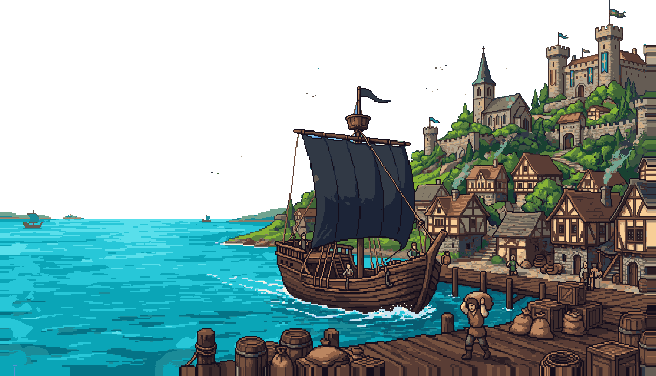
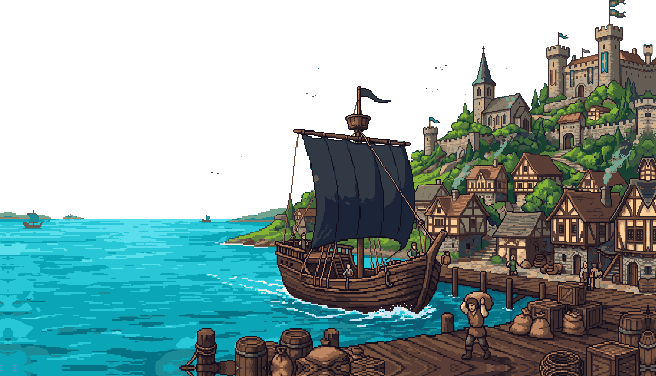
Menu: clean sky behind the land, mirrored margins, smooth parallax
The sky layer behind the land now takes the colour of the nearest sky pixel
(no stripes down the columns, no dark line under the castle's flagpole), and
the gaps of sky in the cog's rigging belong to the sky. Layer margins mirror
the picture instead of repeating its edge. The layers follow the mouse on a
critically damped spring. menu_shot.tscn takes --shift=x,y to check the edges.

Claude-Session: https://claude.ai/code/session_01Ves32F3q6Z4ytadCt162tU

diff --git a/tools/split_menu_art.py b/tools/split_menu_art.py
@@ -5,9 +5,13 @@ into the layers of the living menu:
              through when the layers move apart),
   land.png   the town, the sea, the cog and the quay, the sky cut out (transparent),
   water.png  a mask of the open sea (white where the waves glitter).
-Every layer gets PAD pixels of the edge repeated on each side, so moving it a little with the
+Every layer gets PAD pixels of the picture mirrored at each side (review fix 2026-11-07: a
+mirror instead of the repeated edge, which looked stretched), so moving it a little with the
 mouse never shows an empty border. The sky is found by a flood fill from the top edge over sky
-blues and cloud whites, down to the horizon, and from the EXTRA_SKY points (enclosed pieces).
+blues and cloud whites, down to the horizon, from the EXTRA_SKY points, and from every piece
+of sky enclosed by the rigging (RIGGING box: the gaps between the yard and the sail). Behind
+the land the sky layer takes the colour of the nearest sky pixel, so a sliver of it shown when
+the layers move apart continues the sky right next to it (no stripes down the columns).
 Run from the project root: python3 tools/split_menu_art.py (needs Pillow)."""
 from collections import deque
 
@@ -19,6 +23,8 @@ PAD = 8
 HORIZON = 215
 ## Pieces of sky the flood fill from the top cannot reach (between the sail and its rope).
 EXTRA_SKY = [(293, 160)]
+## Box (x0, y0, x1, y1) of the cog's rigging: any enclosed piece of sky in it is sky.
+RIGGING = (270, 80, 420, 215)
 
 
 def is_sky(c):
@@ -35,6 +41,15 @@ def is_sea(c):
     return g > 120 and b > 140 and r < 120 and b >= g - 10
 
 
+def mirror(i, n):
+    """Index i (may be outside 0..n-1) mirrored back into the picture."""
+    if i < 0:
+        return -i - 1
+    if i >= n:
+        return 2 * n - i - 1
+    return i
+
+
 def pad(img):
     w, h = img.size
     out = Image.new("RGBA", (w + 2 * PAD, h + 2 * PAD))
@@ -45,7 +60,7 @@ def pad(img):
         for x in range(w + 2 * PAD):
             if PAD <= x < w + PAD and PAD <= y < h + PAD:
                 continue
-            dst[x, y] = src[min(max(x - PAD, 0), w - 1), min(max(y - PAD, 0), h - 1)]
+            dst[x, y] = src[mirror(x - PAD, w), mirror(y - PAD, h)]
     return out
 
 
@@ -62,6 +77,12 @@ def main():
     for x, y in EXTRA_SKY:
         sky[y][x] = True
         queue.append((x, y))
+    x0, y0, x1, y1 = RIGGING
+    for y in range(y0, y1):
+        for x in range(x0, x1):
+            if is_sky(px[x, y]):
+                sky[y][x] = True
+                queue.append((x, y))
     while queue:
         x, y = queue.popleft()
         for dx, dy in ((1, 0), (-1, 0), (0, 1), (0, -1)):
@@ -75,16 +96,23 @@ def main():
     s = sky_img.load()
     land = land_img.load()
     water = water_img.load()
-    for x in range(w):
-        last = px[x, 0]
-        for y in range(h):
+    # Behind the land: the colour of the nearest sky pixel (breadth-first from all sky).
+    filled = [row[:] for row in sky]
+    front = deque((x, y) for y in range(h) for x in range(w) if sky[y][x])
+    while front:
+        x, y = front.popleft()
+        for dx, dy in ((1, 0), (-1, 0), (0, 1), (0, -1)):
+            nx, ny = x + dx, y + dy
+            if 0 <= nx < w and 0 <= ny < h and not filled[ny][nx]:
+                filled[ny][nx] = True
+                s[nx, ny] = s[x, y]
+                front.append((nx, ny))
+    for y in range(h):
+        for x in range(w):
             if sky[y][x]:
-                last = px[x, y]
                 land[x, y] = (0, 0, 0, 0)
-            else:
-                s[x, y] = last   # the sky goes on behind the land
-                if y >= HORIZON - 5 and is_sea(px[x, y]):
-                    water[x, y] = (255, 255, 255, 255)
+            elif y >= HORIZON - 5 and is_sea(px[x, y]):
+                water[x, y] = (255, 255, 255, 255)
     pad(sky_img).save(OUT + "sky.png")
     pad(land_img).save(OUT + "land.png")
     pad(water_img).save(OUT + "water.png")
